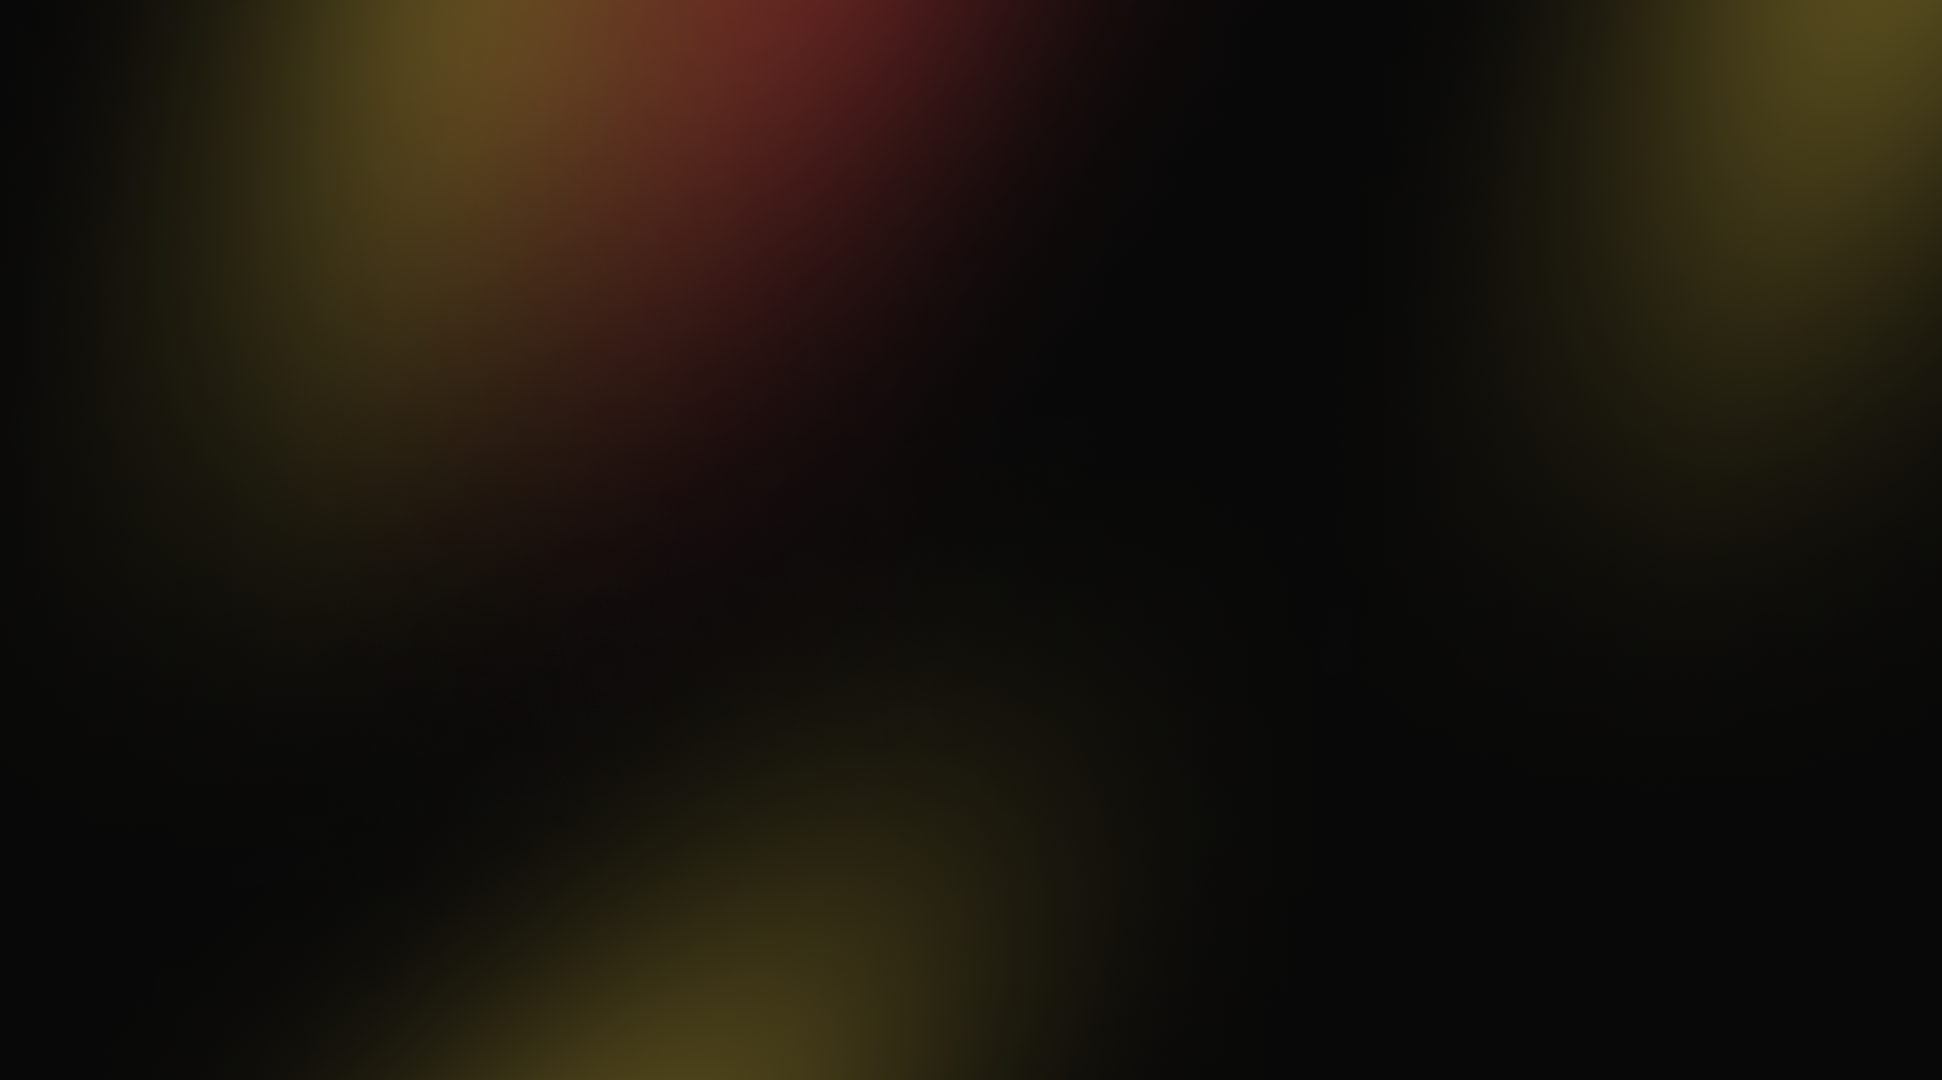
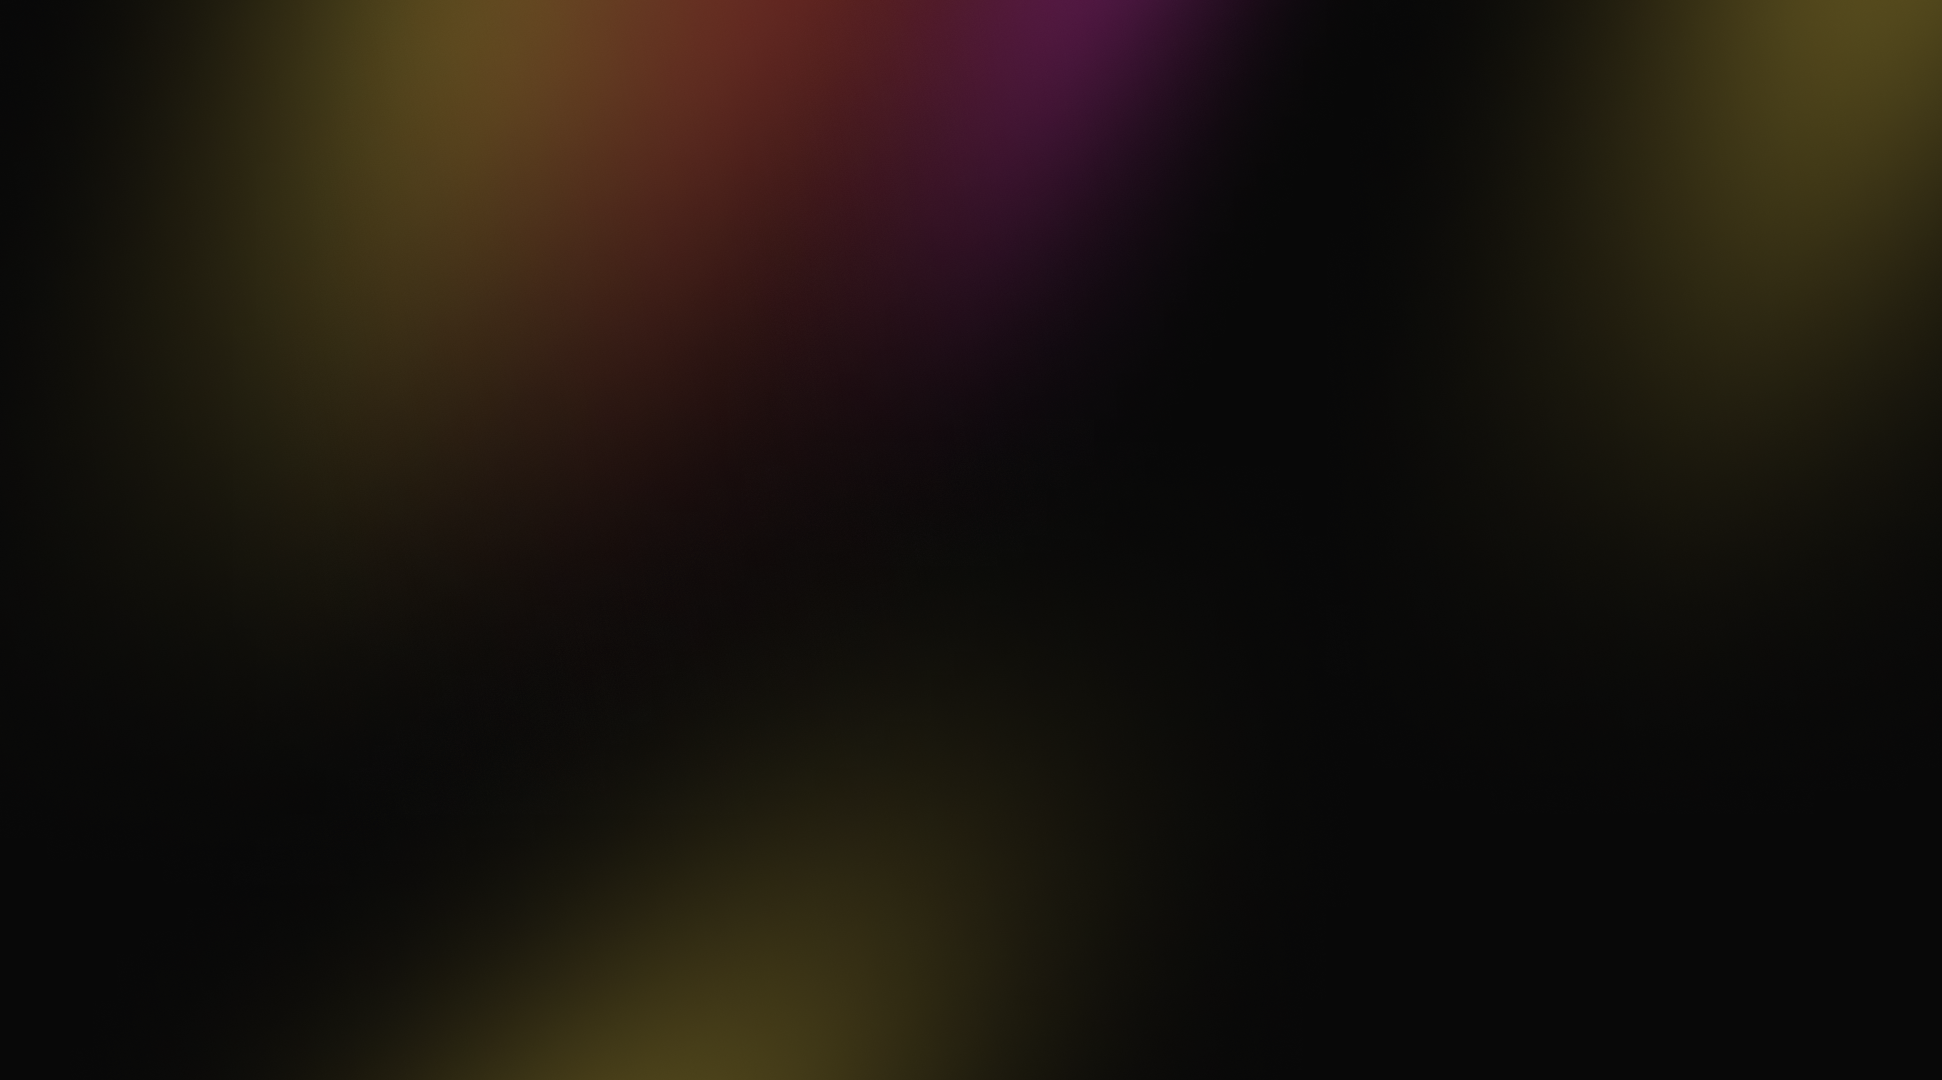
ceruledge added

Changed region(s): [[0.4634, 0.0, 0.6488, 0.2444]]

diff --git a/styles/themes.css b/styles/themes.css
@@ -311,3 +311,22 @@
     --pet-scale: 1.1;
     --form-transparency: #0000008f;
 }
+
+.theme-ceruledge {
+    --primary-color: #5900ff;
+    --secondary-color: #d655c5;
+    --tertiary-color: #8072ff71;
+    --text: #ffffff;
+    --text-dim: #7667ffcc;
+    --add-fill: #4311b8;
+    --borders: #5d9eff;
+    --borders-dim: rgba(0, 60, 255, 0.507);
+    --background-image: url('../images/bg-ceruledge.png');
+    --petbg-image: url('../images/pet-bg-purphell.jpg');
+    --filter-color: invert(30%) sepia(80%) saturate(2000%) hue-rotate(270deg) brightness(85%) contrast(50%);
+    --background-color: #111111;
+    --background-color: #111111;
+    --pet: url('../images/ceruledge.gif');
+    --pet-scale: 1;
+    --form-transparency: #0000008f;
+}

diff --git a/profile.php b/profile.php
@@ -218,6 +218,11 @@
                             <img src="images/armorouge.gif" alt="armorouge">
                             <span class="level-req">lvl 8</span>
                         </label>
+                        <label <?php echo !in_array('ceruledge', $availablePets) ? 'class="locked"' : ''; ?>>
+                            <input type="radio" name="pokemon" value="ceruledge" <?php echo ($currentPokemon == 'ceruledge') ? 'checked' : ''; ?> <?php echo !in_array('ceruledge', $availablePets) ? 'disabled' : ''; ?>>
+                            <img src="images/ceruledge.gif" alt="ceruledge">
+                            <span class="level-req">lvl 8</span>
+                        </label>
 
                     </div>
 

diff --git a/includes/func.php b/includes/func.php
@@ -48,6 +48,7 @@ function getAvailablePets($level) {
         $available[] = 'zoroark';
         $available[] = 'toxtricity';
         $available[] = 'armorouge';
+        $available[] = 'ceruledge';
     }
     
     if ($level >= 10) {
